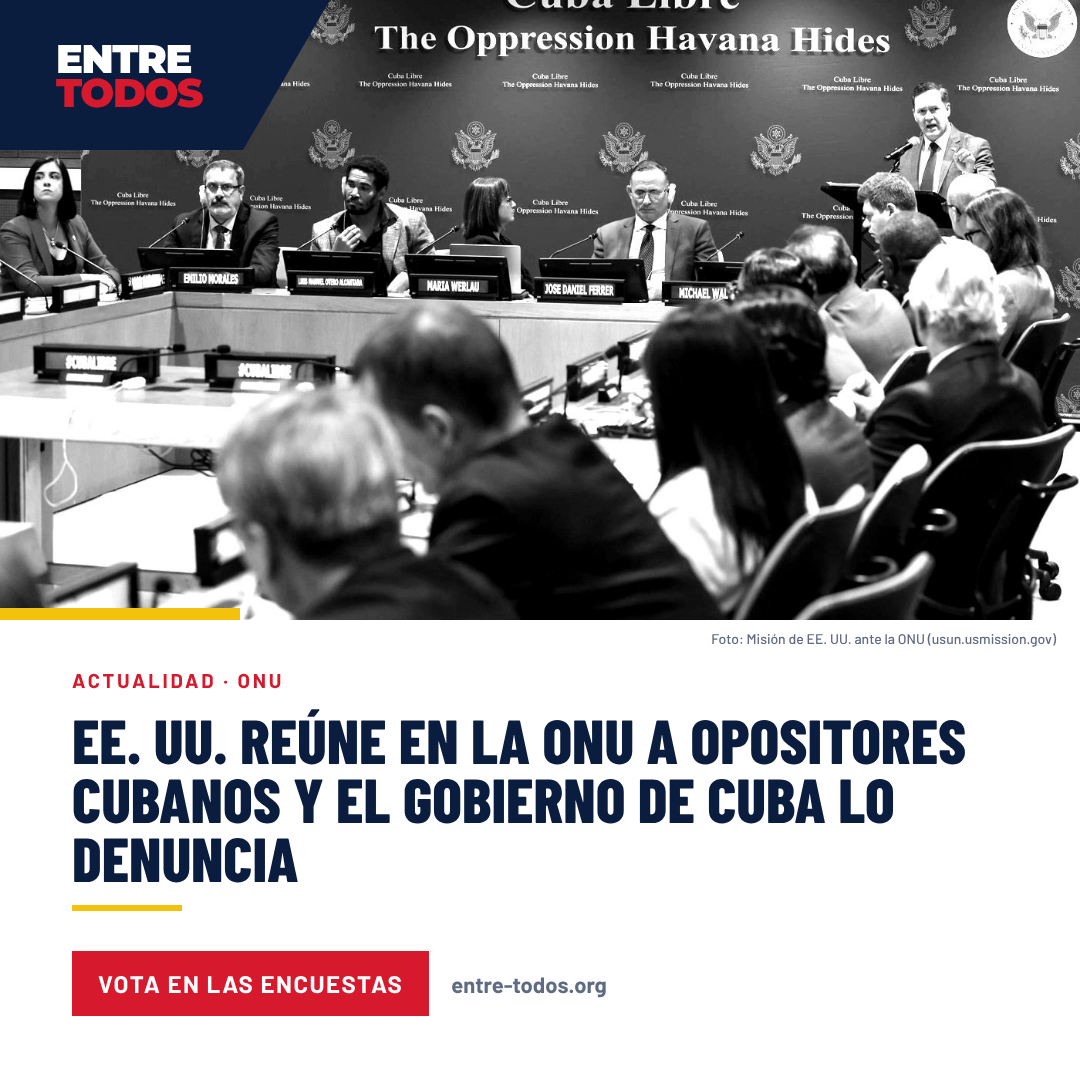
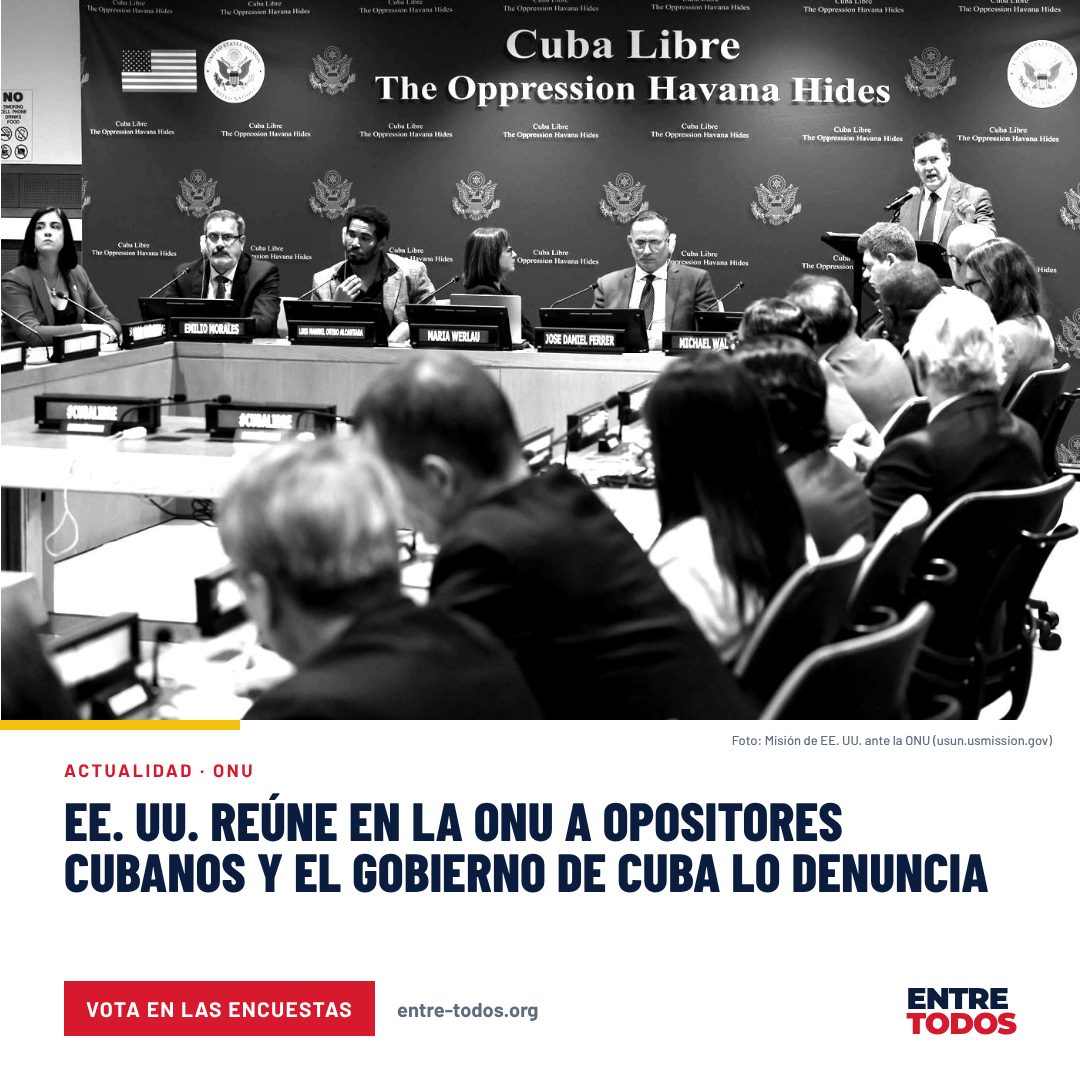
Noticias: portadas con la foto completa y el titular en banda inferior
Claude-Session: https://claude.ai/code/session_01NeHkYtKpNTVMo5tPgtXgnp

diff --git a/scripts/noticias/plantilla.html b/scripts/noticias/plantilla.html
@@ -13,32 +13,28 @@
 .ante{font:700 13px/1.2 B;letter-spacing:.14em;text-transform:uppercase;color:var(--r)}
 .foto{position:absolute;background-size:cover;background-position:center;filter:grayscale(1)}
 .am{height:6px;background:var(--a)}
-/* ancha 1200x630 */
-.ancha{width:1200px;height:630px}
-.ancha .foto{inset:0}
-.ancha .panel{position:absolute;left:0;top:0;bottom:0;width:760px;background:rgba(11,29,63,.93);clip-path:polygon(0 0,100% 0,calc(100% - 364px) 100%,0 100%)}
-.ancha .rojo{position:absolute;top:0;bottom:0;left:700px;width:60px;background:var(--r);clip-path:polygon(364px 0,100% 0,calc(100% - 364px) 100%,0 100%);display:none}
-.ancha .c{position:absolute;left:64px;top:56px;width:560px;color:#fff;display:flex;flex-direction:column;gap:18px;height:518px}
-.ancha .ante{color:var(--a)}
-.ancha h1{margin:0;font:800 54px/0.96 BC;text-transform:uppercase}
-.ancha .am{width:90px}
-.ancha .pie{margin-top:auto;font:500 16px B;color:rgba(255,255,255,.8);display:flex;gap:14px}
-.ancha .cred{position:absolute;right:28px;bottom:16px;font:500 12px B;color:rgba(255,255,255,.75)}
-.franja{position:absolute;height:14px;background:var(--r);transform:skewX(-30deg)}
-/* cuadrada 1080x1080 */
+/* ancha 1200x630: foto completa arriba, banda del titular abajo */
+.ancha{width:1200px;height:630px;background:var(--m)}
+.ancha .foto{left:247px;top:0;width:705px;height:470px;background-size:contain;background-repeat:no-repeat}
+.ancha .logo{position:absolute;left:40px;top:36px;font-size:34px;color:#fff}
+.ancha .banda{position:absolute;left:0;right:0;top:470px;height:160px;padding:22px 40px 0;display:flex;flex-direction:column;gap:8px;color:#fff}
+.ancha .banda .ante{color:var(--a)}
+.ancha .banda h1{margin:0;font:800 38px/1 BC;text-transform:uppercase;max-width:1000px}
+.ancha .am{position:absolute;left:0;top:464px;width:247px;height:6px}
+.ancha .cred{position:absolute;right:40px;top:410px;width:190px;text-align:right;font:500 12px/1.4 B;color:rgba(255,255,255,.7)}
+.ancha .pie{position:absolute;right:40px;top:36px;width:200px;text-align:right;font:500 15px/1.5 B;color:rgba(255,255,255,.8)}
+/* cuadrada 1080x1080: foto completa arriba, banda blanca abajo */
 .cuadrada{width:1080px;height:1080px}
-.cuadrada .foto{left:0;right:0;top:0;height:620px}
-.cuadrada .barra-am{position:absolute;left:0;top:608px;width:240px;height:12px;background:var(--a)}
-.cuadrada .marca{position:absolute;left:0;top:0;width:330px;height:150px;background:var(--m);clip-path:polygon(0 0,100% 0,calc(100% - 87px) 100%,0 100%)}
-.cuadrada .c{position:absolute;left:72px;right:72px;top:668px;display:flex;flex-direction:column;gap:18px}
-.cuadrada .ante{font-size:20px}
-.cuadrada h1{margin:0;font:800 62px/0.95 BC;text-transform:uppercase;color:var(--m)}
-.cuadrada .am{width:110px}
-.cuadrada .logo{position:absolute;left:56px;top:42px;font-size:40px;color:#fff}
-.cuadrada .cta{position:absolute;left:72px;bottom:64px;display:flex;align-items:center;gap:22px}
-.cuadrada .cta span.btn{background:var(--r);color:#fff;font:700 24px B;letter-spacing:.06em;text-transform:uppercase;padding:18px 26px}
-.cuadrada .cta span.url{font:700 22px B;color:var(--t3)}
-.cuadrada .cred{position:absolute;right:24px;top:630px;font:500 14px B;color:var(--t3)}
+.cuadrada .foto{left:0;top:0;width:1080px;height:720px;background-size:contain;background-repeat:no-repeat}
+.cuadrada .am{position:absolute;left:0;top:720px;width:240px;height:10px}
+.cuadrada .cred{position:absolute;right:28px;top:732px;font:500 13px B;color:var(--t3)}
+.cuadrada .c{position:absolute;left:64px;right:64px;top:760px;display:flex;flex-direction:column;gap:12px}
+.cuadrada .ante{font-size:18px}
+.cuadrada h1{margin:0;font:800 54px/0.96 BC;text-transform:uppercase;color:var(--m)}
+.cuadrada .cta{position:absolute;left:64px;bottom:44px;display:flex;align-items:center;gap:22px}
+.cuadrada .cta span.btn{background:var(--r);color:#fff;font:700 21px B;letter-spacing:.06em;text-transform:uppercase;padding:15px 22px}
+.cuadrada .cta span.url{font:700 20px B;color:var(--t3)}
+.cuadrada .logo{position:absolute;right:64px;bottom:44px;font-size:30px}
 /* página */
 .pagina{width:1200px;background:var(--f)}
 .pagina .cab{background:#fff;border-bottom:1px solid var(--b);display:flex;align-items:center;justify-content:space-between;padding:20px 48px}
@@ -48,8 +44,8 @@
 .pagina h1{margin:12px 0 18px;font:800 58px/0.95 BC;text-transform:uppercase;color:var(--m);max-width:900px}
 .pagina .entr{font:400 21px/1.55 B;color:var(--t2);max-width:820px;margin:0}
 .pagina .meta{margin-top:18px;font:500 14px B;color:var(--t3);display:flex;gap:18px}
-.pagina figure{margin:34px 0 8px;position:relative;height:520px;background:#000}
-.pagina figure .foto{inset:0}
+.pagina figure{margin:34px 0 8px;position:relative;aspect-ratio:3/2;background:var(--m)}
+.pagina figure .foto{inset:0;background-size:contain;background-repeat:no-repeat}
 .pagina figure .am{position:absolute;left:0;bottom:0;width:180px}
 .pagina figcaption{font:400 14px/1.5 B;color:var(--t3);margin-bottom:40px}
 .pagina h2{font:800 30px/1 BC;text-transform:uppercase;color:var(--m);margin:44px 0 16px;display:flex;align-items:center;gap:14px}
@@ -88,12 +84,11 @@ window.pintar=(D,F,P)=>{
  const f=F+D.foto.archivo+'.jpg';
  const ENC=D.encuestas||(D.encuesta?[D.encuesta]:[]);
  const logo=(c)=>'<div class="logo '+(c||'')+'">Entre<b>Todos</b></div>';
- const ancha='<div class="pieza ancha" id="ancha"><div class="foto" style="background-image:url('+f+');background-position:70% center"></div><div class="panel"></div>'+
-  '<div class="c">'+logo('bl')+'<div style="height:26px"></div><div class="ante">Actualidad · '+D.seccion+'</div><h1>'+D.titular+'</h1><div class="am"></div>'+
-  '<div class="pie"><span>'+D.fecha+'</span><span>entre-todos.org/actualidad</span></div></div><div class="cred">'+D.foto.credito+'</div></div>';
- const cuadrada='<div class="pieza cuadrada" id="cuadrada"><div class="foto" style="background-image:url('+f+')"></div><div class="barra-am"></div><div class="marca"></div>'+logo()+
-  '<div class="cred">'+D.foto.credito+'</div><div class="c"><div class="ante">Actualidad · '+D.seccion+'</div><h1>'+D.titular+'</h1><div class="am"></div></div>'+
-  '<div class="cta"><span class="btn">'+(ENC.length>1?'Vota en las encuestas':'Vota en la encuesta')+'</span><span class="url">entre-todos.org</span></div></div>';
+ const ancha='<div class="pieza ancha" id="ancha"><div class="foto" style="background-image:url('+f+')"></div>'+logo('bl')+'<div class="pie">'+D.fecha+'<br>entre-todos.org</div><div class="cred">'+D.foto.credito+'</div><div class="am"></div>'+
+  '<div class="banda"><div class="ante">Actualidad · '+D.seccion+'</div><h1>'+D.titular+'</h1></div></div>';
+ const cuadrada='<div class="pieza cuadrada" id="cuadrada"><div class="foto" style="background-image:url('+f+')"></div><div class="am"></div><div class="cred">'+D.foto.credito+'</div>'+
+  '<div class="c"><div class="ante">Actualidad · '+D.seccion+'</div><h1>'+D.titular+'</h1></div>'+
+  '<div class="cta"><span class="btn">'+(ENC.length>1?'Vota en las encuestas':'Vota en la encuesta')+'</span><span class="url">entre-todos.org</span></div>'+logo()+'</div>';
  const props=D.propuestas.map(id=>{const p=P[id]||{t:id,k:''};return '<a><span class="k">'+p.k+'</span><span class="t">'+p.t+'</span><span class="v">Ver propuesta →</span></a>';}).join('');
  const pagina='<div class="pieza pagina" id="pagina"><div class="cab">'+logo()+'<nav><span>Propuestas</span><span>¿Cuál es el plan?</span><span class="act">Actualidad</span><span>Blog A+</span><span>Sobre nosotros</span></nav></div>'+
   '<div class="art"><div class="ante">Actualidad · '+D.seccion+'</div><h1>'+D.titular+'</h1><p class="entr">'+D.entradilla+'</p><div class="meta"><span>'+D.fecha+'</span><span>Redacción de ENTRE TODOS</span></div>'+

diff --git a/scripts/noticias/LEEME.md b/scripts/noticias/LEEME.md
@@ -56,10 +56,8 @@ El resultado queda en `salida/<id>/`.
 
 - **Foto del hecho:** del propio evento y pública. Se convierte a blanco y negro con brillo medio cerca de 100 y lado largo de 1400 px. El crédito va siempre visible. Es la única excepción a «sin políticos» del manual: en Actualidad la foto muestra el hecho.
 - **Colores:** solo marino, rojo y amarillo. El amarillo nunca va como texto sobre blanco.
-- **Diagonal única «/» a 60°:**
-  - en la portada ancha, el panel marino corta la foto;
-  - en la cuadrada, el bloque del logotipo;
-  - en la página, la marca roja de cada sección.
+- **Foto completa:** en las portadas y en la página la foto se ve entera, sin recortar bordes ni escudos y sin que nada tape a las personas. El titular va en una banda inferior: marino en la portada ancha y blanca en la cuadrada.
+- **Diagonal única «/» a 60°:** solo en la marca roja de cada sección de la página.
 - **Tipografía:** titulares en Barlow Condensed 800 en mayúsculas; texto en Barlow; logotipo en Montserrat 900, escrito como texto.
 - **Esquinas:** rectas, con un radio máximo de 4 px.
 
